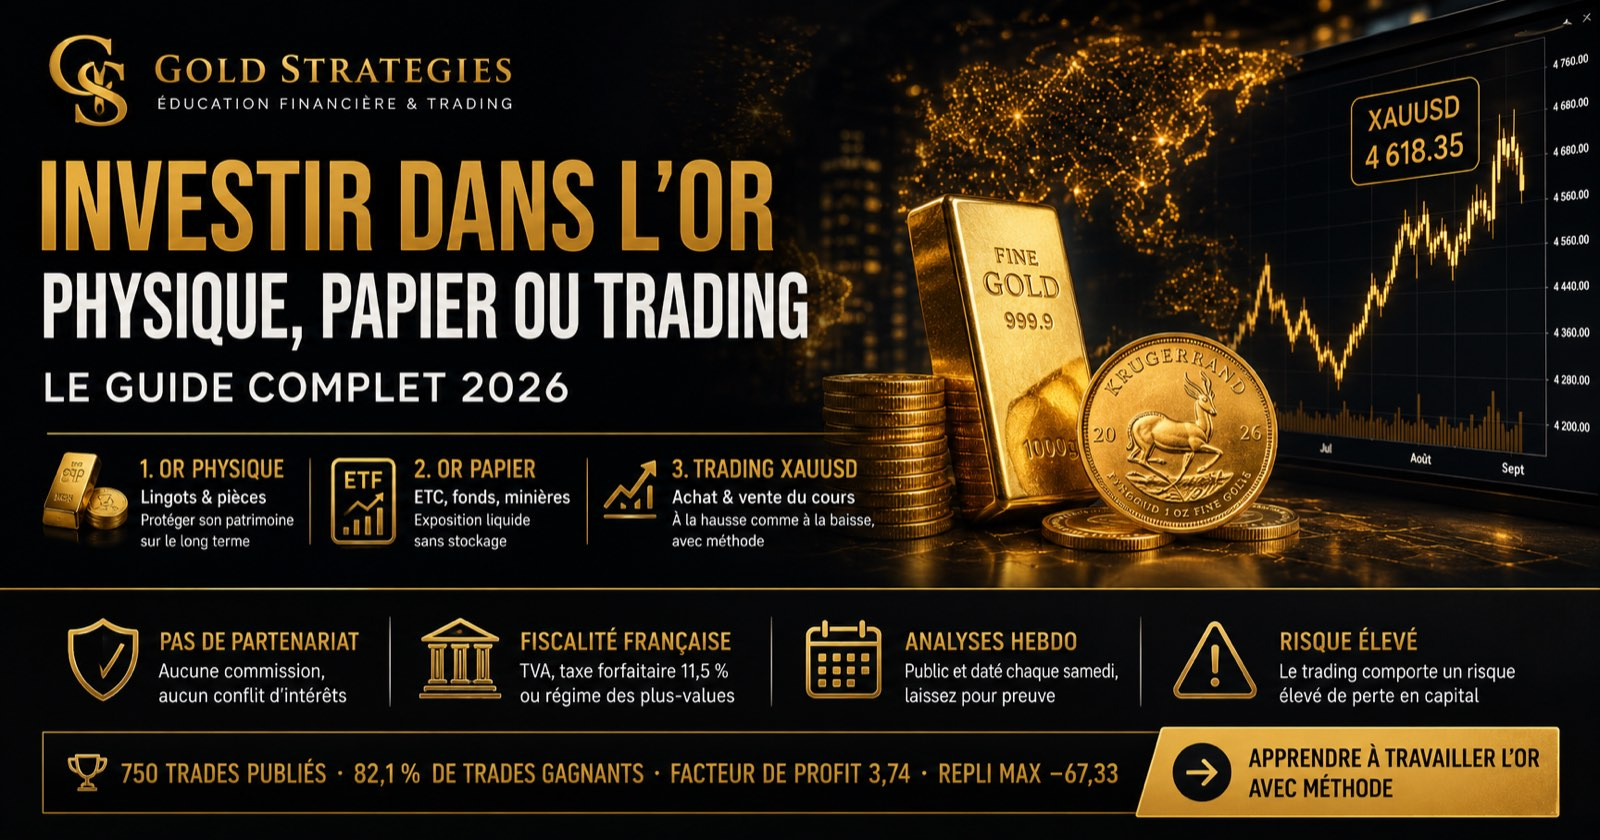
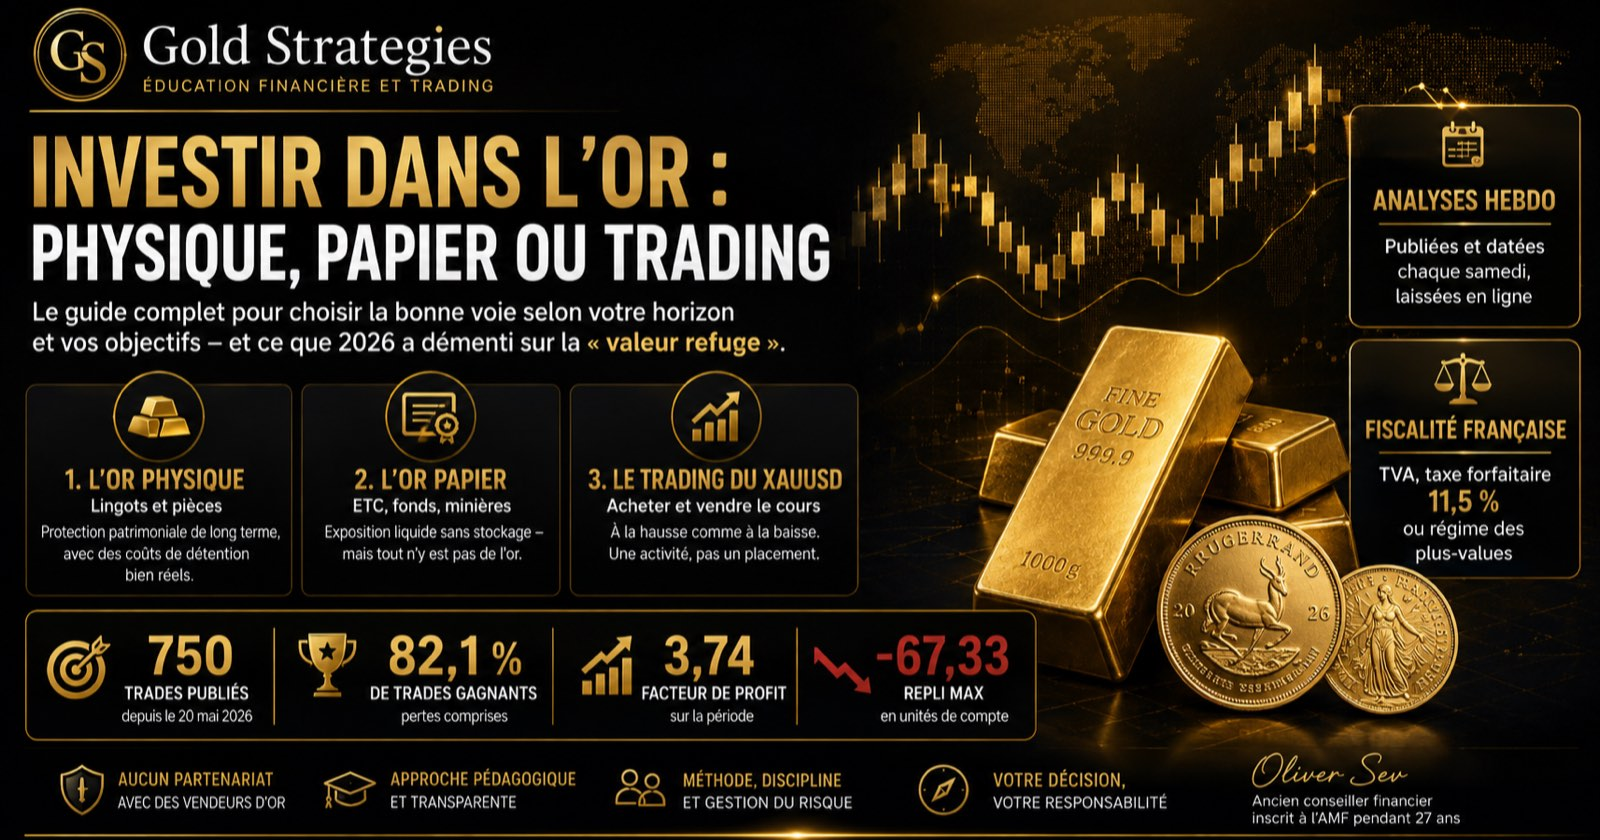
Bannière /investir-dans-lor/ corrigée + section preuve de l'accueil régénérée
Bannière : nouvelle génération. Corrige la faute d'accord du bloc « Analyses
hebdo » (« laissées en ligne ») et retire du graphique de fond le prix XAUUSD
inventé ainsi que les graduations chiffrées. Les seuls chiffres restants sont
ceux du journal (750 / 82,1 % / 3,74 / −67,33) et le taux de 11,5 %, tous
vérifiés. 1600×840, 285 Ko.

Accueil : la section #preuve était figée à 14 semaines et 1 483 € de cumul —
tools/build-preuve-hebdo.py ne trouvait plus le journal depuis son
rapatriement du 28/08 (chemin corrigé au commit précédent). Régénérée :
15 semaines, cumul +1 961,94 €, 14/15 positives, cohérent avec /resultats/.

diff --git a/index.html b/index.html
@@ -4,7 +4,7 @@
     <div class="wrap">
       <div class="sec-head rv">
         <span class="eyebrow">La preuve, semaine après semaine</span>
-        <h2 class="h2">Pas un coup d'éclat. <span class="sh">14 semaines</span> bout à bout.</h2>
+        <h2 class="h2">Pas un coup d'éclat. <span class="sh">15 semaines</span> bout à bout.</h2>
         <p class="lede">Un complément de revenu ne se construit pas en une fois. Voici le résultat de
         chaque semaine depuis l'ouverture du journal, une seule semaine négative comprise — parce qu'un relevé sans
         aucune perte n'est pas un relevé, c'est une publicité.</p>
@@ -13,74 +13,77 @@
       <div class="ph-card rv">
         <svg class="ph-chart" viewBox="0 0 860 330" role="img" aria-label="Résultat de chaque semaine et cumul depuis le 20 mai 2026">
         <line class="ph-grid" x1="46" y1="22.0" x2="844" y2="22.0"/>
-        <text class="ph-ytick" x="38" y="26.0">1 483</text>
+        <text class="ph-ytick" x="38" y="26.0">1 962</text>
         <line class="ph-grid" x1="46" y1="109.3" x2="844" y2="109.3"/>
-        <text class="ph-ytick" x="38" y="113.3">989</text>
+        <text class="ph-ytick" x="38" y="113.3">1 308</text>
         <line class="ph-grid" x1="46" y1="196.7" x2="844" y2="196.7"/>
-        <text class="ph-ytick" x="38" y="200.7">494</text>
+        <text class="ph-ytick" x="38" y="200.7">654</text>
         <line class="ph-grid" x1="46" y1="284.0" x2="844" y2="284.0"/>
         <text class="ph-ytick" x="38" y="288.0">0</text>
         <line class="ph-zero" x1="46" y1="258" x2="844" y2="258"/>
-        <rect class="ph-bar" x="59.7" y="221.3" width="29.6" height="36.7" rx="3"><title>Semaine du 18/05 · +77,81 € · 27 trades</title></rect>
-        <text class="ph-xtick" x="74.5" y="300.0">18/05</text>
-        <rect class="ph-bar" x="116.7" y="167.2" width="29.6" height="90.8" rx="3"><title>Semaine du 25/05 · +192,73 € · 55 trades</title></rect>
-        <text class="ph-xtick ph-xtick-alt" x="131.5" y="300.0">25/05</text>
-        <rect class="ph-bar ph-bar-neg" x="173.7" y="258.0" width="29.6" height="9.0" rx="3"><title>Semaine du 01/06 · −6,21 € · 16 trades</title></rect>
-        <text class="ph-xtick" x="188.5" y="300.0">01/06</text>
-        <text class="ph-neg-lbl" x="188.5" y="280.0">−6,21 €</text>
-        <rect class="ph-bar" x="230.7" y="148.0" width="29.6" height="110.0" rx="3"><title>Semaine du 08/06 · +233,52 € · 131 trades</title></rect>
-        <text class="ph-xtick ph-xtick-alt" x="245.5" y="300.0">08/06</text>
-        <rect class="ph-bar" x="287.7" y="204.1" width="29.6" height="53.9" rx="3"><title>Semaine du 15/06 · +114,39 € · 66 trades</title></rect>
-        <text class="ph-xtick" x="302.5" y="300.0">15/06</text>
-        <rect class="ph-bar" x="344.7" y="184.7" width="29.6" height="73.3" rx="3"><title>Semaine du 22/06 · +155,47 € · 115 trades</title></rect>
-        <text class="ph-xtick ph-xtick-alt" x="359.5" y="300.0">22/06</text>
-        <rect class="ph-bar" x="401.7" y="195.5" width="29.6" height="62.5" rx="3"><title>Semaine du 29/06 · +132,55 € · 50 trades</title></rect>
-        <text class="ph-xtick" x="416.5" y="300.0">29/06</text>
-        <rect class="ph-bar" x="458.7" y="233.6" width="29.6" height="24.4" rx="3"><title>Semaine du 06/07 · +51,79 € · 7 trades</title></rect>
-        <text class="ph-xtick ph-xtick-alt" x="473.5" y="300.0">06/07</text>
-        <rect class="ph-bar" x="515.7" y="227.4" width="29.6" height="30.6" rx="3"><title>Semaine du 13/07 · +64,93 € · 33 trades</title></rect>
-        <text class="ph-xtick" x="530.5" y="300.0">13/07</text>
-        <rect class="ph-bar" x="572.7" y="210.8" width="29.6" height="47.2" rx="3"><title>Semaine du 20/07 · +100,14 € · 32 trades</title></rect>
-        <text class="ph-xtick ph-xtick-alt" x="587.5" y="300.0">20/07</text>
-        <rect class="ph-bar" x="629.7" y="212.4" width="29.6" height="45.6" rx="3"><title>Semaine du 27/07 · +96,78 € · 42 trades</title></rect>
-        <text class="ph-xtick" x="644.5" y="300.0">27/07</text>
-        <rect class="ph-bar" x="686.7" y="176.0" width="29.6" height="82.0" rx="3"><title>Semaine du 03/08 · +174,11 € · 43 trades</title></rect>
-        <text class="ph-xtick ph-xtick-alt" x="701.5" y="300.0">03/08</text>
-        <rect class="ph-bar" x="743.7" y="219.7" width="29.6" height="38.3" rx="3"><title>Semaine du 10/08 · +81,24 € · 33 trades</title></rect>
-        <text class="ph-xtick" x="758.5" y="300.0">10/08</text>
-        <rect class="ph-bar" x="800.7" y="251.5" width="29.6" height="6.5" rx="3"><title>Semaine du 17/08 · +13,86 € · 39 trades</title></rect>
-        <text class="ph-xtick ph-xtick-alt" x="815.5" y="300.0">17/08</text>
-        <path class="ph-area" d="M 74.5 244.3 L 131.5 210.2 L 188.5 211.3 L 245.5 170.1 L 302.5 149.8 L 359.5 122.4 L 416.5 99.0 L 473.5 89.8 L 530.5 78.3 L 587.5 60.7 L 644.5 43.6 L 701.5 12.8 L 758.5 -1.6 L 815.5 -4.0 L 815.5 258 L 74.5 258 Z"/>
-        <path class="ph-line" d="M 74.5 244.3 L 131.5 210.2 L 188.5 211.3 L 245.5 170.1 L 302.5 149.8 L 359.5 122.4 L 416.5 99.0 L 473.5 89.8 L 530.5 78.3 L 587.5 60.7 L 644.5 43.6 L 701.5 12.8 L 758.5 -1.6 L 815.5 -4.0"/>
-        <circle class="ph-dot" cx="74.5" cy="244.3" r="3.4"><title>Cumul au 18/05 : +77,81 €</title></circle>
-        <circle class="ph-dot" cx="131.5" cy="210.2" r="3.4"><title>Cumul au 25/05 : +270,54 €</title></circle>
-        <circle class="ph-dot" cx="188.5" cy="211.3" r="3.4"><title>Cumul au 01/06 : +264,33 €</title></circle>
-        <circle class="ph-dot" cx="245.5" cy="170.1" r="3.4"><title>Cumul au 08/06 : +497,85 €</title></circle>
-        <circle class="ph-dot" cx="302.5" cy="149.8" r="3.4"><title>Cumul au 15/06 : +612,24 €</title></circle>
-        <circle class="ph-dot" cx="359.5" cy="122.4" r="3.4"><title>Cumul au 22/06 : +767,71 €</title></circle>
-        <circle class="ph-dot" cx="416.5" cy="99.0" r="3.4"><title>Cumul au 29/06 : +900,26 €</title></circle>
-        <circle class="ph-dot" cx="473.5" cy="89.8" r="3.4"><title>Cumul au 06/07 : +952,05 €</title></circle>
-        <circle class="ph-dot" cx="530.5" cy="78.3" r="3.4"><title>Cumul au 13/07 : +1 016,98 €</title></circle>
-        <circle class="ph-dot" cx="587.5" cy="60.7" r="3.4"><title>Cumul au 20/07 : +1 117,12 €</title></circle>
-        <circle class="ph-dot" cx="644.5" cy="43.6" r="3.4"><title>Cumul au 27/07 : +1 213,90 €</title></circle>
-        <circle class="ph-dot" cx="701.5" cy="12.8" r="3.4"><title>Cumul au 03/08 : +1 388,01 €</title></circle>
-        <circle class="ph-dot" cx="758.5" cy="-1.6" r="3.4"><title>Cumul au 10/08 : +1 469,25 €</title></circle>
-        <circle class="ph-dot" cx="815.5" cy="-4.0" r="3.4"><title>Cumul au 17/08 : +1 483,11 €</title></circle>
+        <rect class="ph-bar" x="58.8" y="240.1" width="27.7" height="17.9" rx="3"><title>Semaine du 18/05 · +77,81 € · 27 trades</title></rect>
+        <text class="ph-xtick" x="72.6" y="300.0">18/05</text>
+        <rect class="ph-bar" x="112.0" y="213.7" width="27.7" height="44.3" rx="3"><title>Semaine du 25/05 · +192,73 € · 55 trades</title></rect>
+        <text class="ph-xtick ph-xtick-alt" x="125.8" y="300.0">25/05</text>
+        <rect class="ph-bar ph-bar-neg" x="165.2" y="258.0" width="27.7" height="9.0" rx="3"><title>Semaine du 01/06 · −6,21 € · 16 trades</title></rect>
+        <text class="ph-xtick" x="179.0" y="300.0">01/06</text>
+        <text class="ph-neg-lbl" x="179.0" y="280.0">−6,21 €</text>
+        <rect class="ph-bar" x="218.4" y="204.3" width="27.7" height="53.7" rx="3"><title>Semaine du 08/06 · +233,52 € · 131 trades</title></rect>
+        <text class="ph-xtick ph-xtick-alt" x="232.2" y="300.0">08/06</text>
+        <rect class="ph-bar" x="271.6" y="231.7" width="27.7" height="26.3" rx="3"><title>Semaine du 15/06 · +114,39 € · 66 trades</title></rect>
+        <text class="ph-xtick" x="285.4" y="300.0">15/06</text>
+        <rect class="ph-bar" x="324.8" y="222.3" width="27.7" height="35.7" rx="3"><title>Semaine du 22/06 · +155,47 € · 115 trades</title></rect>
+        <text class="ph-xtick ph-xtick-alt" x="338.6" y="300.0">22/06</text>
+        <rect class="ph-bar" x="378.0" y="227.5" width="27.7" height="30.5" rx="3"><title>Semaine du 29/06 · +132,55 € · 50 trades</title></rect>
+        <text class="ph-xtick" x="391.8" y="300.0">29/06</text>
+        <rect class="ph-bar" x="431.2" y="246.1" width="27.7" height="11.9" rx="3"><title>Semaine du 06/07 · +51,79 € · 7 trades</title></rect>
+        <text class="ph-xtick ph-xtick-alt" x="445.0" y="300.0">06/07</text>
+        <rect class="ph-bar" x="484.4" y="243.1" width="27.7" height="14.9" rx="3"><title>Semaine du 13/07 · +64,93 € · 33 trades</title></rect>
+        <text class="ph-xtick" x="498.2" y="300.0">13/07</text>
+        <rect class="ph-bar" x="537.6" y="235.0" width="27.7" height="23.0" rx="3"><title>Semaine du 20/07 · +100,14 € · 32 trades</title></rect>
+        <text class="ph-xtick ph-xtick-alt" x="551.4" y="300.0">20/07</text>
+        <rect class="ph-bar" x="590.8" y="235.8" width="27.7" height="22.2" rx="3"><title>Semaine du 27/07 · +96,78 € · 42 trades</title></rect>
+        <text class="ph-xtick" x="604.6" y="300.0">27/07</text>
+        <rect class="ph-bar" x="644.0" y="218.0" width="27.7" height="40.0" rx="3"><title>Semaine du 03/08 · +174,11 € · 43 trades</title></rect>
+        <text class="ph-xtick ph-xtick-alt" x="657.8" y="300.0">03/08</text>
+        <rect class="ph-bar" x="697.2" y="239.3" width="27.7" height="18.7" rx="3"><title>Semaine du 10/08 · +81,24 € · 33 trades</title></rect>
+        <text class="ph-xtick" x="711.0" y="300.0">10/08</text>
+        <rect class="ph-bar" x="750.4" y="254.8" width="27.7" height="3.2" rx="3"><title>Semaine du 17/08 · +13,86 € · 39 trades</title></rect>
+        <text class="ph-xtick ph-xtick-alt" x="764.2" y="300.0">17/08</text>
+        <rect class="ph-bar" x="803.6" y="148.0" width="27.7" height="110.0" rx="3"><title>Semaine du 24/08 · +478,83 € · 61 trades</title></rect>
+        <text class="ph-xtick" x="817.4" y="300.0">24/08</text>
+        <path class="ph-area" d="M 72.6 247.6 L 125.8 221.9 L 179.0 222.7 L 232.2 191.5 L 285.4 176.2 L 338.6 155.5 L 391.8 137.8 L 445.0 130.9 L 498.2 122.2 L 551.4 108.8 L 604.6 95.9 L 657.8 72.6 L 711.0 61.8 L 764.2 59.9 L 817.4 -4.0 L 817.4 258 L 72.6 258 Z"/>
+        <path class="ph-line" d="M 72.6 247.6 L 125.8 221.9 L 179.0 222.7 L 232.2 191.5 L 285.4 176.2 L 338.6 155.5 L 391.8 137.8 L 445.0 130.9 L 498.2 122.2 L 551.4 108.8 L 604.6 95.9 L 657.8 72.6 L 711.0 61.8 L 764.2 59.9 L 817.4 -4.0"/>
+        <circle class="ph-dot" cx="72.6" cy="247.6" r="3.4"><title>Cumul au 18/05 : +77,81 €</title></circle>
+        <circle class="ph-dot" cx="125.8" cy="221.9" r="3.4"><title>Cumul au 25/05 : +270,54 €</title></circle>
+        <circle class="ph-dot" cx="179.0" cy="222.7" r="3.4"><title>Cumul au 01/06 : +264,33 €</title></circle>
+        <circle class="ph-dot" cx="232.2" cy="191.5" r="3.4"><title>Cumul au 08/06 : +497,85 €</title></circle>
+        <circle class="ph-dot" cx="285.4" cy="176.2" r="3.4"><title>Cumul au 15/06 : +612,24 €</title></circle>
+        <circle class="ph-dot" cx="338.6" cy="155.5" r="3.4"><title>Cumul au 22/06 : +767,71 €</title></circle>
+        <circle class="ph-dot" cx="391.8" cy="137.8" r="3.4"><title>Cumul au 29/06 : +900,26 €</title></circle>
+        <circle class="ph-dot" cx="445.0" cy="130.9" r="3.4"><title>Cumul au 06/07 : +952,05 €</title></circle>
+        <circle class="ph-dot" cx="498.2" cy="122.2" r="3.4"><title>Cumul au 13/07 : +1 016,98 €</title></circle>
+        <circle class="ph-dot" cx="551.4" cy="108.8" r="3.4"><title>Cumul au 20/07 : +1 117,12 €</title></circle>
+        <circle class="ph-dot" cx="604.6" cy="95.9" r="3.4"><title>Cumul au 27/07 : +1 213,90 €</title></circle>
+        <circle class="ph-dot" cx="657.8" cy="72.6" r="3.4"><title>Cumul au 03/08 : +1 388,01 €</title></circle>
+        <circle class="ph-dot" cx="711.0" cy="61.8" r="3.4"><title>Cumul au 10/08 : +1 469,25 €</title></circle>
+        <circle class="ph-dot" cx="764.2" cy="59.9" r="3.4"><title>Cumul au 17/08 : +1 483,11 €</title></circle>
+        <circle class="ph-dot" cx="817.4" cy="-4.0" r="3.4"><title>Cumul au 24/08 : +1 961,94 €</title></circle>
       </svg>
         <p class="ph-legend"><i class="ph-k-bar"></i> résultat de la semaine &nbsp;·&nbsp;
         <i class="ph-k-line"></i> cumul depuis le départ</p>
       </div>
 
       <div class="stat rv">
-        <div><b class="count" data-to="14">0</b><span>semaines documentées</span></div>
-        <div><b class="count" data-to="13">0</b><span>semaines positives</span></div>
-        <div><b class="count" data-to="1483" data-suffix="&nbsp;€">0</b><span>cumulés, pertes déduites</span></div>
-        <div><b class="count" data-to="689">0</b><span>trades consignés</span></div>
+        <div><b class="count" data-to="15">0</b><span>semaines documentées</span></div>
+        <div><b class="count" data-to="14">0</b><span>semaines positives</span></div>
+        <div><b class="count" data-to="1962" data-suffix="&nbsp;€">0</b><span>cumulés, pertes déduites</span></div>
+        <div><b class="count" data-to="750">0</b><span>trades consignés</span></div>
       </div>
 
-      <p class="ph-note rv">Journal réel du 18/05/2026 au 21/08/2026, alimenté automatiquement, pertes comprises ·
-      capital engagé au départ : 300&nbsp;€, positions de 0,01 lot · encours au 21/08/2026 :
-      1 783,11 €. Résultats passés, sur une période courte : ils ne préjugent
+      <p class="ph-note rv">Journal réel du 18/05/2026 au 28/08/2026, alimenté automatiquement, pertes comprises ·
+      capital engagé au départ : 300&nbsp;€, positions de 0,01 lot · encours au 28/08/2026 :
+      2 261,94 €. Résultats passés, sur une période courte : ils ne préjugent
       en rien des résultats futurs et ne constituent ni une promesse ni un conseil en investissement.</p>
 
       <div class="cta-row rv">
